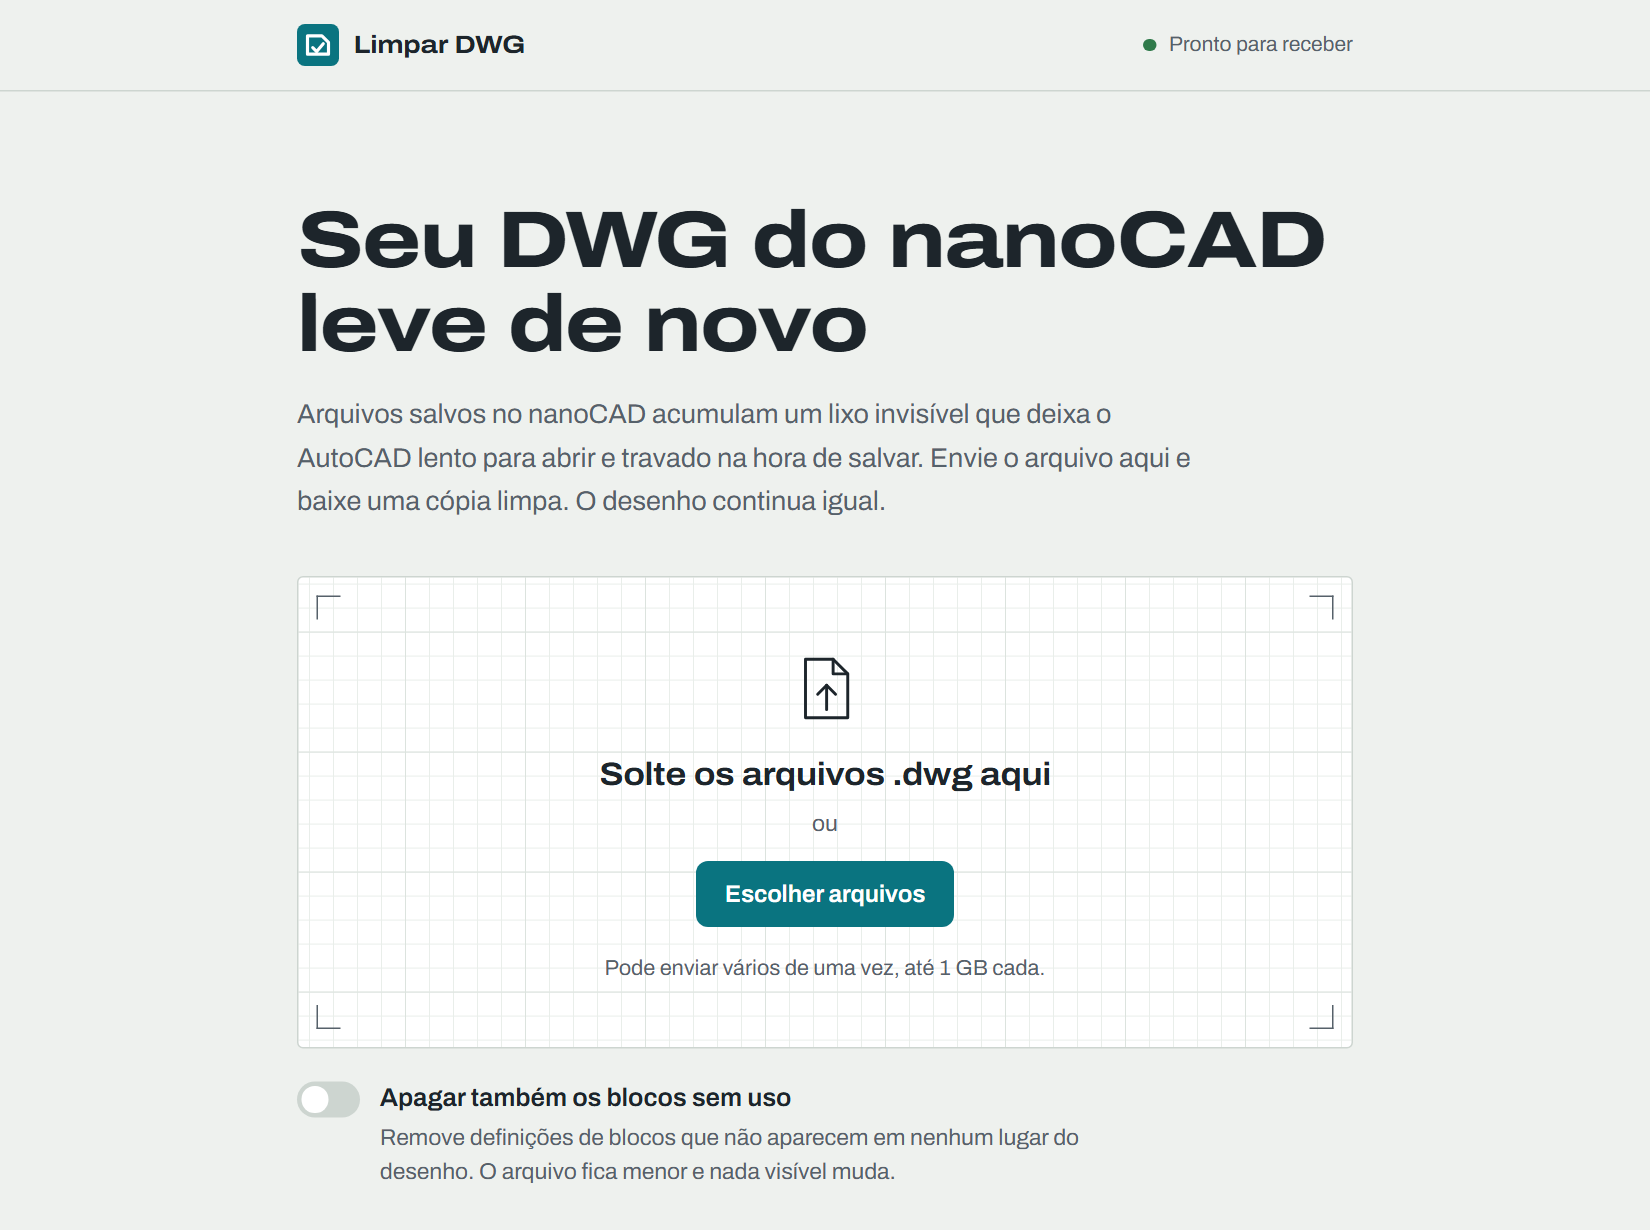
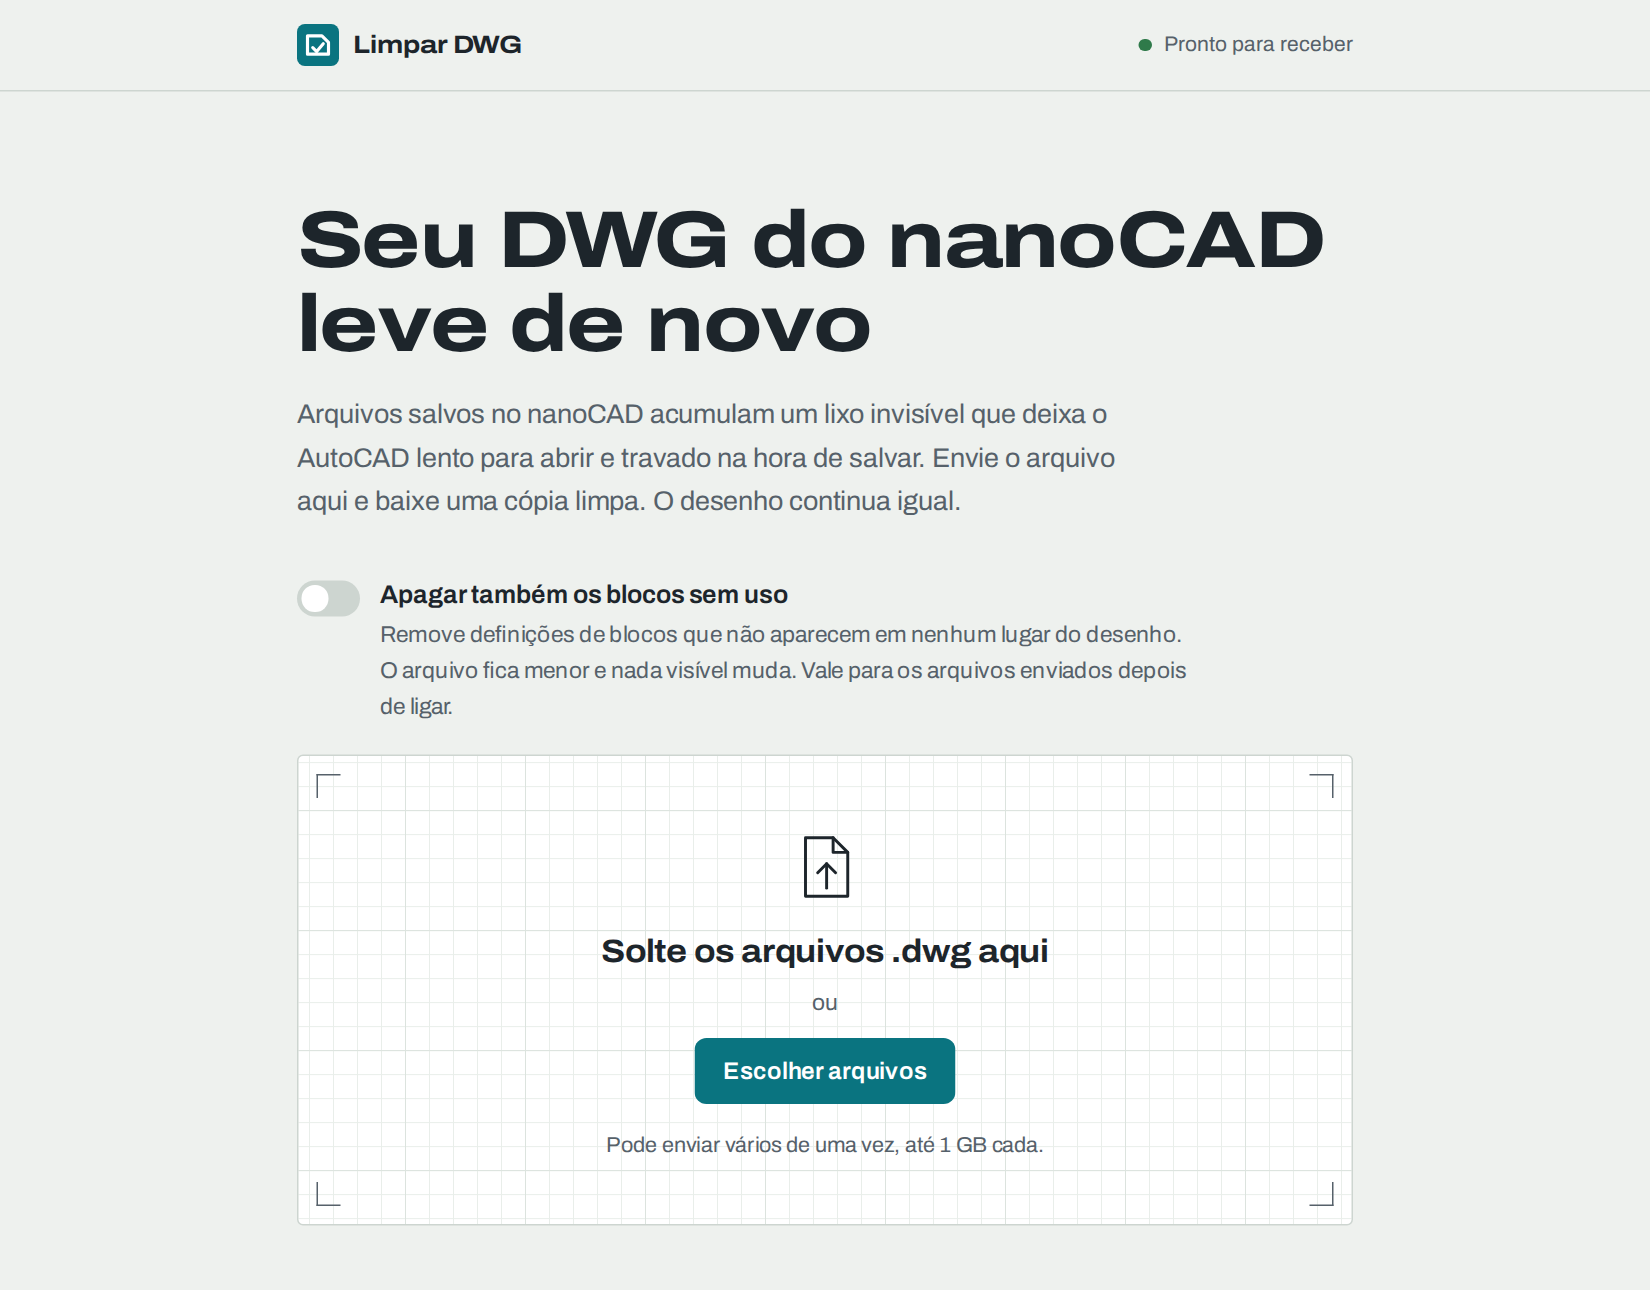
Opção de apagar blocos sem uso antes da área de soltar
A limpeza começa assim que o arquivo chega, mas a opção ficava abaixo do
quadrado e só era vista depois. Agora vem antes, com aviso de que vale
para os próximos envios. Print e passo a passo do README atualizados.

diff --git a/server/static/index.html b/server/static/index.html
@@ -31,6 +31,17 @@
       </p>
     </section>
 
+    <div class="option">
+      <label class="switch">
+        <input id="opt-purge" type="checkbox" role="switch">
+        <span class="switch-track" aria-hidden="true"><span class="switch-thumb"></span></span>
+        <span class="switch-text">
+          <span class="switch-label">Apagar também os blocos sem uso</span>
+          <span class="switch-help">Remove definições de blocos que não aparecem em nenhum lugar do desenho. O arquivo fica menor e nada visível muda. Vale para os arquivos enviados depois de ligar.</span>
+        </span>
+      </label>
+    </div>
+
     <div id="sheet" class="sheet">
       <span class="crop crop-tl" aria-hidden="true"></span><span class="crop crop-tr" aria-hidden="true"></span>
       <span class="crop crop-bl" aria-hidden="true"></span><span class="crop crop-br" aria-hidden="true"></span>
@@ -53,17 +64,6 @@
         </div>
         <div id="jobs" class="jobs"></div>
       </section>
-    </div>
-
-    <div class="option">
-      <label class="switch">
-        <input id="opt-purge" type="checkbox" role="switch">
-        <span class="switch-track" aria-hidden="true"><span class="switch-thumb"></span></span>
-        <span class="switch-text">
-          <span class="switch-label">Apagar também os blocos sem uso</span>
-          <span class="switch-help">Remove definições de blocos que não aparecem em nenhum lugar do desenho. O arquivo fica menor e nada visível muda.</span>
-        </span>
-      </label>
     </div>
 
     <section class="notes" aria-labelledby="notes-title">

diff --git a/server/static/style.css b/server/static/style.css
@@ -194,7 +194,7 @@ h1 {
 
 /* ------------------------------------------------------------ opção */
 
-.option { margin-top: 1.25rem; }
+.option { margin-bottom: 1.25rem; }
 .sheet { scroll-margin-top: 1.5rem; }
 .switch { display: flex; align-items: flex-start; gap: .85rem; cursor: pointer; }
 .switch input { position: absolute; opacity: 0; width: 1px; height: 1px; }

diff --git a/README.md b/README.md
@@ -11,7 +11,7 @@ O motor de limpeza lê e grava DWG diretamente, em Rust.
 e 70% menor, com o mesmo desenho.
 
 <p align="center">
-  <img src="docs/inicio.png" alt="Página inicial com a área para soltar os arquivos .dwg" width="720">
+  <img src="docs/inicio.png" alt="Página inicial com a opção de apagar blocos sem uso e a área para soltar os arquivos .dwg" width="720">
 </p>
 
 <p align="center">
@@ -21,10 +21,11 @@ e 70% menor, com o mesmo desenho.
 
 ## Como usar
 
-1. Abra a página e arraste um ou mais arquivos `.dwg` para a área indicada (ou clique em
-   **Escolher arquivos**).
-2. Se quiser, ligue **Apagar também os blocos sem uso** para um arquivo ainda menor.
-3. Acompanhe o progresso de cada arquivo e clique em **Baixar cópia limpa** quando terminar.
+1. Se quiser um arquivo ainda menor, ligue antes **Apagar também os blocos sem uso**. A limpeza
+   começa assim que o arquivo chega, então a opção vale para os envios feitos depois de ligá-la.
+2. Arraste um ou mais arquivos `.dwg` para a área indicada (ou clique em **Escolher arquivos**).
+   Eles aparecem ali mesmo, com o progresso de cada um.
+3. Clique em **Baixar cópia limpa** quando terminar.
 4. Abra a cópia `_LIMPO.dwg` no AutoCAD e confira antes de substituir o original.
 
 A página funciona no modo claro e escuro e lembra os arquivos enviados, então dá para fechar a aba e
